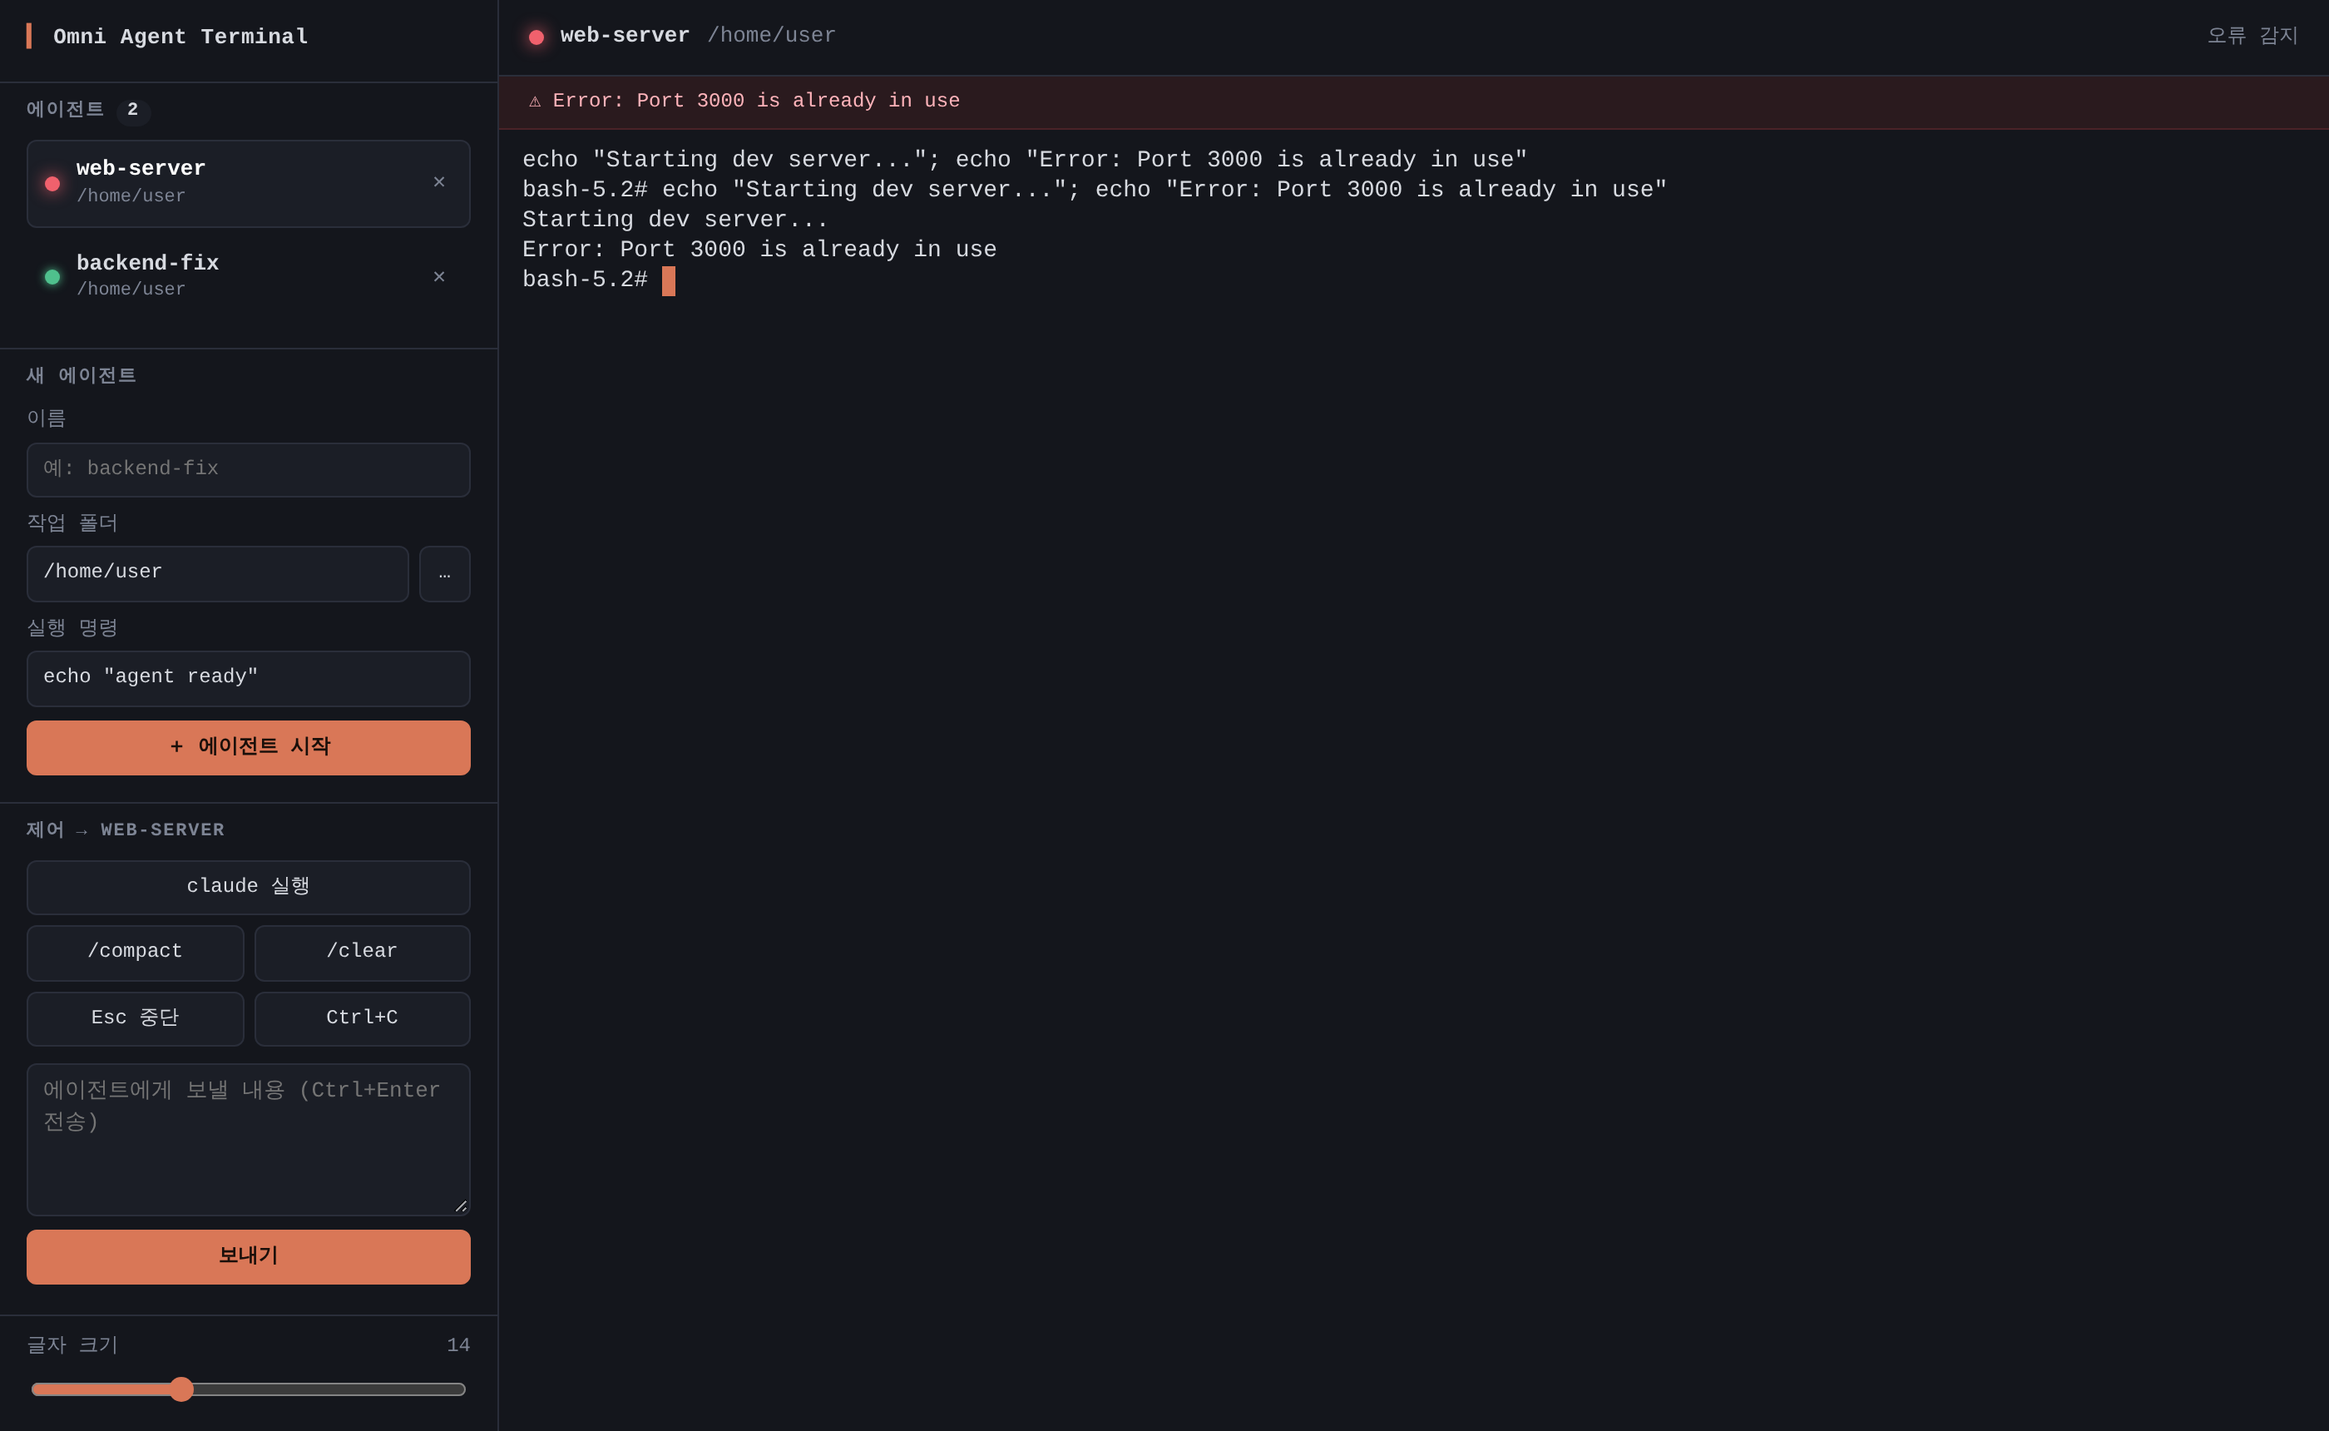
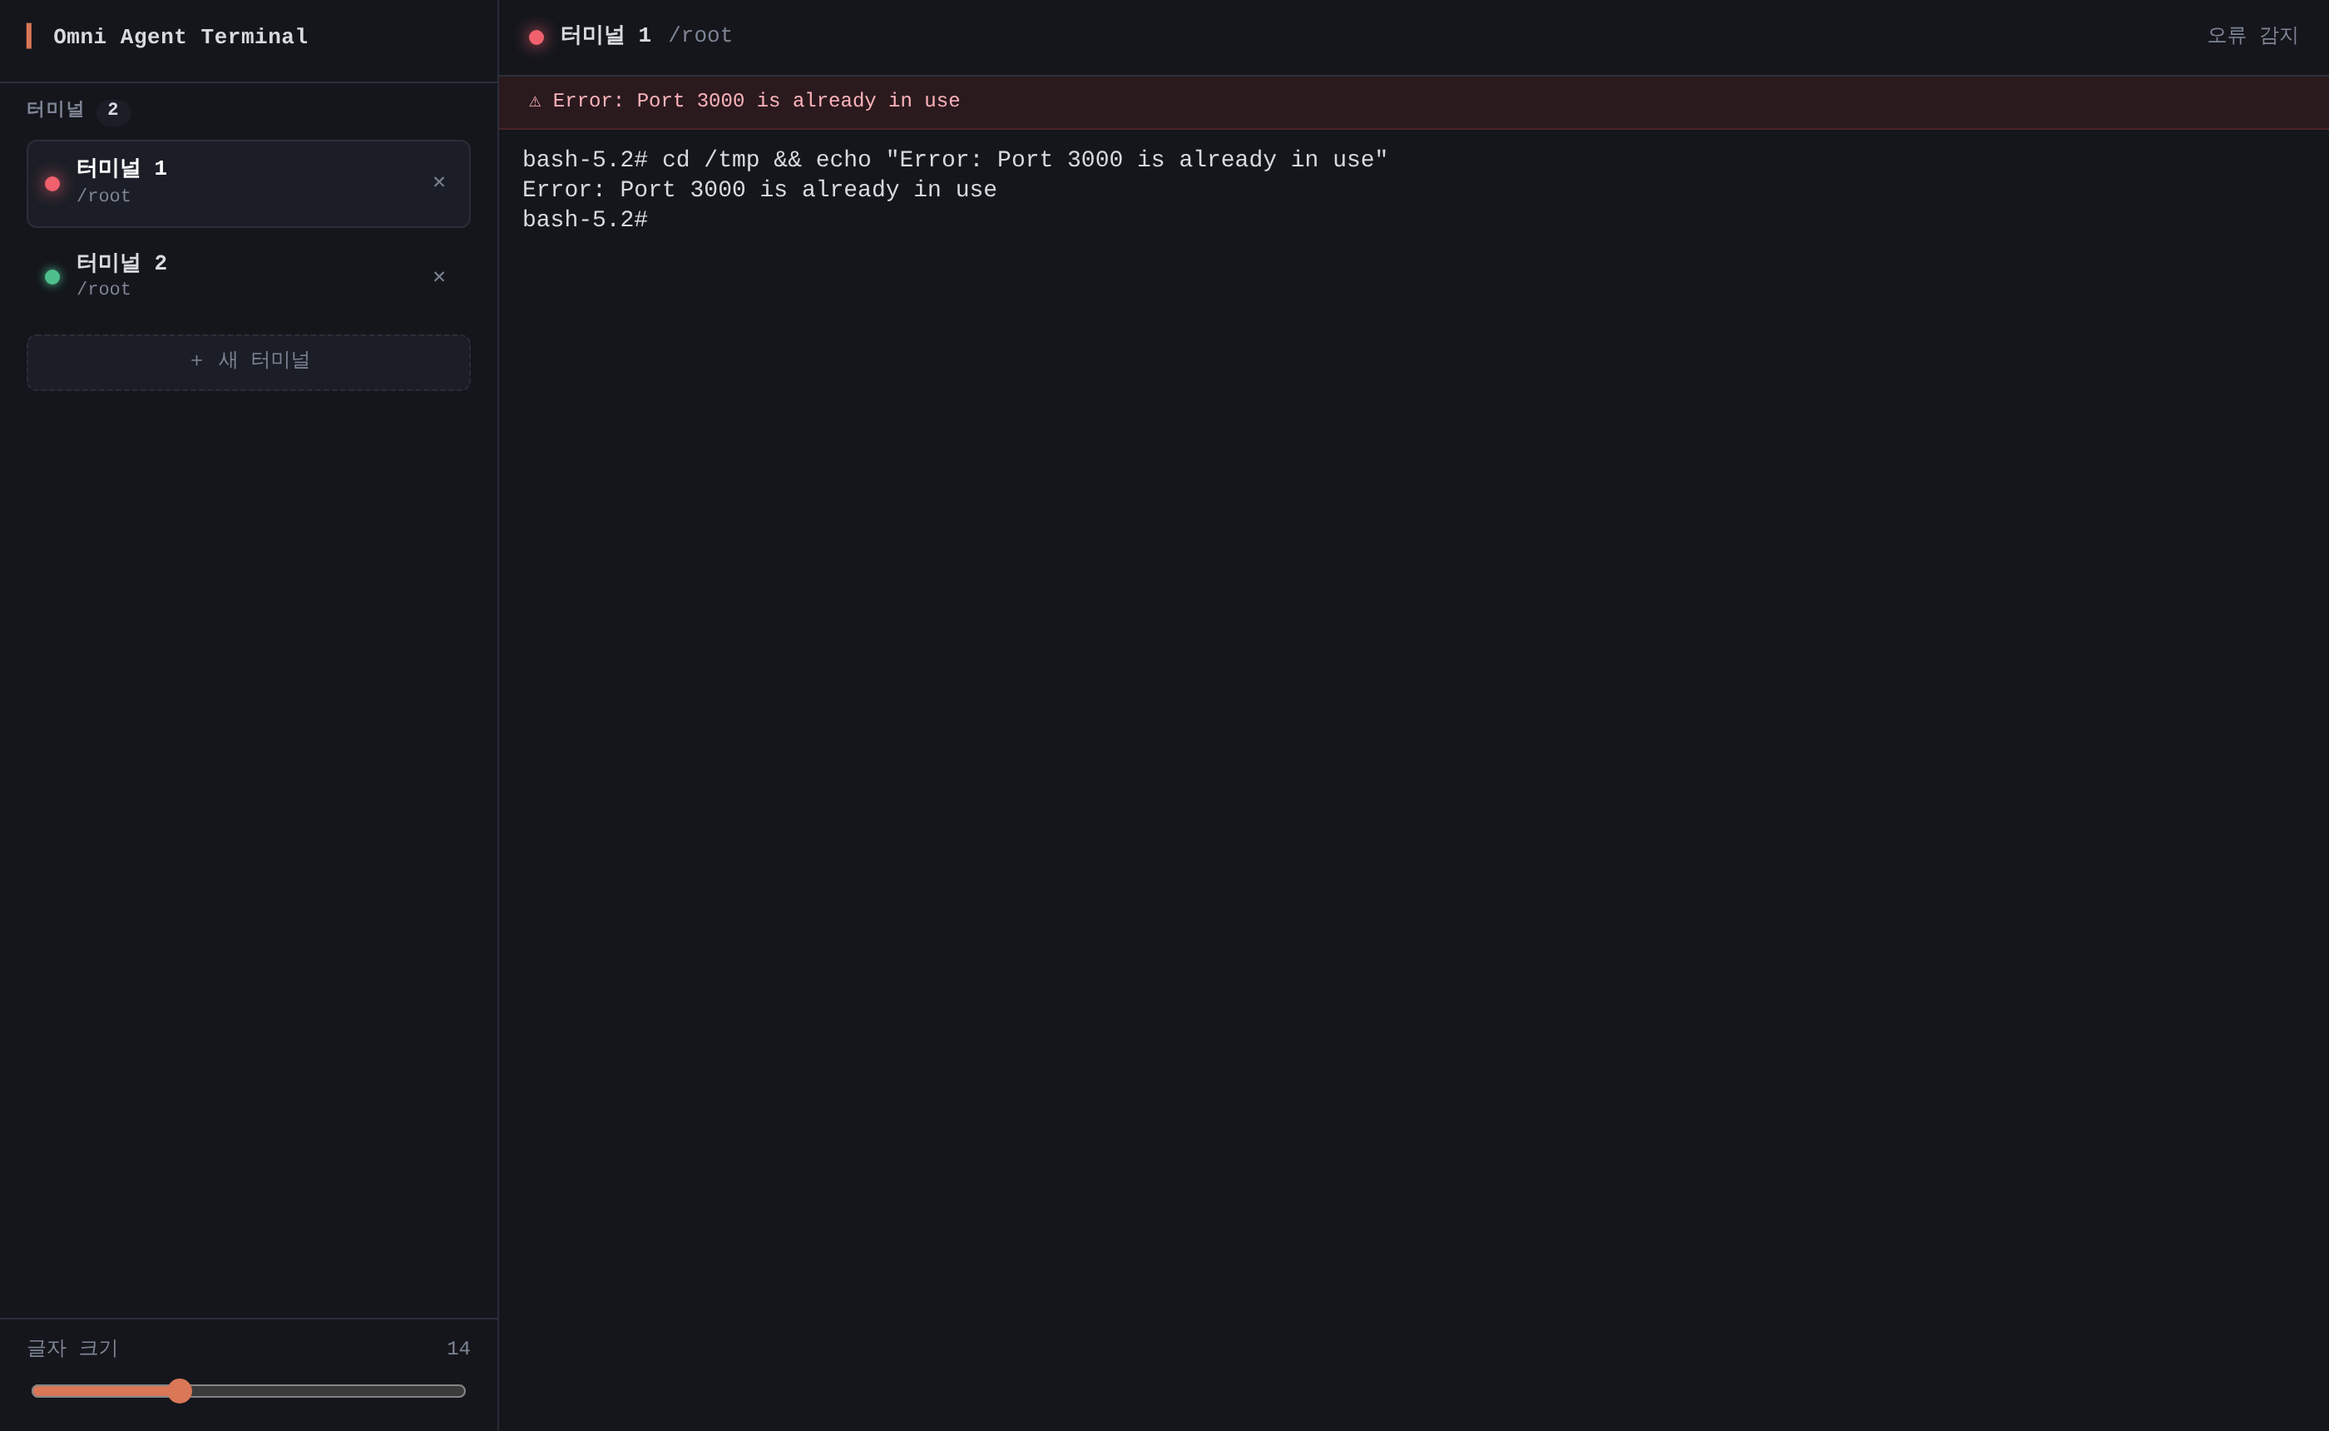
agent-terminal: open a plain shell on launch, drop agent controls
The app now starts straight into a PowerShell in the home folder. The new-agent
form, quick-command buttons and prompt box are removed (Claude Code already
covers them); the sidebar keeps the terminal list with status LEDs, a new
terminal button and font size. Ctrl+Shift+T / Ctrl+Shift+W open and close
terminals; closing the last one closes the window.

Claude-Session: https://claude.ai/code/session_01ThbFEw8WRqscoHxtDEMqQC

diff --git a/claude-code/apps/agent-terminal/src/renderer/renderer.js b/claude-code/apps/agent-terminal/src/renderer/renderer.js
@@ -23,16 +23,9 @@ const STATUS_LABEL = {
 const $ = (sel) => document.querySelector(sel);
 const els = {
   list: $('#agent-list'),
-  empty: $('#agent-empty'),
   count: $('#agent-count'),
   terminals: $('#terminals'),
-  welcome: $('#welcome'),
-  form: $('#new-agent'),
-  pick: $('#pick-folder'),
-  controls: $('#controls'),
-  controlTarget: $('#control-target'),
-  promptForm: $('#prompt-form'),
-  prompt: $('#prompt'),
+  newTerminal: $('#new-terminal'),
   fontSize: $('#font-size'),
   fontSizeValue: $('#font-size-value'),
   activeLed: $('#active-led'),
@@ -53,12 +46,24 @@ function writePref(key, value) {
   try { localStorage.setItem(key, String(value)); } catch { /* ignore */ }
 }
 
-// ---------- agent lifecycle ----------
+// ---------- terminal lifecycle ----------
 
-async function startAgent({ name, cwd, command }) {
-  const info = await api.create({ name, cwd, command, cols: 100, rows: 30 });
+// A plain shell in the home folder; the user cds and runs claude as usual.
+async function newTerminal() {
+  const info = await api.create({ cols: 100, rows: 30 });
   addAgent(info);
   select(info.id);
+}
+
+function closeTerminal(id) {
+  if (id) api.kill(id);
+}
+
+// Ctrl+Shift+T / Ctrl+Shift+W. Handled once, on document; xterm only has to
+// leave these keys alone (see attachCustomKeyEventHandler below).
+const SHORTCUTS = { KeyT: () => newTerminal(), KeyW: () => closeTerminal(activeId) };
+function isShortcut(e) {
+  return e.ctrlKey && e.shiftKey && !e.altKey && e.code in SHORTCUTS;
 }
 
 function addAgent(info) {
@@ -79,6 +84,7 @@ function addAgent(info) {
   term.loadAddon(fit);
   term.open(el);
   term.onData((data) => api.write(info.id, data));
+  term.attachCustomKeyEventHandler((e) => !isShortcut(e));
   term.onResize(({ cols, rows }) => api.resize(info.id, cols, rows));
 
   const item = document.createElement('li');
@@ -90,14 +96,14 @@ function addAgent(info) {
       <div class="agent-name ellipsis"></div>
       <div class="agent-sub ellipsis"></div>
     </span>
-    <button class="agent-close" title="에이전트 종료" aria-label="에이전트 종료">✕</button>`;
+    <button class="agent-close" title="터미널 닫기" aria-label="터미널 닫기">✕</button>`;
   item.querySelector('.agent-name').textContent = info.name;
   item.querySelector('.agent-sub').textContent = info.cwd;
   item.addEventListener('click', () => select(info.id));
   item.addEventListener('keydown', (e) => { if (e.key === 'Enter') select(info.id); });
   item.querySelector('.agent-close').addEventListener('click', (e) => {
     e.stopPropagation();
-    api.kill(info.id);
+    closeTerminal(info.id);
   });
   els.list.appendChild(item);
 
@@ -112,10 +118,11 @@ function removeAgent(id) {
   a.el.remove();
   a.item.remove();
   agents.delete(id);
+  // Closing the last terminal closes the window, like a regular terminal app.
+  if (agents.size === 0) { window.close(); return; }
   if (activeId === id) {
     activeId = null;
-    const next = agents.keys().next();
-    if (!next.done) select(next.value);
+    select([...agents.keys()].at(-1));
   }
   renderList();
   renderActive();
@@ -147,19 +154,15 @@ function fitActive() {
 
 function renderList() {
   els.count.textContent = String(agents.size);
-  els.empty.hidden = agents.size > 0;
-  els.welcome.hidden = agents.size > 0;
 }
 
 function renderActive() {
   const a = agents.get(activeId);
-  els.controls.setAttribute('aria-disabled', a && a.info.status !== 'exited' ? 'false' : 'true');
   if (!a) {
     els.activeLed.dataset.status = 'none';
-    els.activeName.textContent = '에이전트를 시작하세요';
+    els.activeName.textContent = '';
     els.activeCwd.textContent = '';
     els.activeStatus.textContent = '';
-    els.controlTarget.textContent = '';
     els.banner.hidden = true;
     return;
   }
@@ -168,7 +171,6 @@ function renderActive() {
   els.activeName.textContent = info.name;
   els.activeCwd.textContent = info.cwd;
   els.activeStatus.textContent = STATUS_LABEL[info.status] || '';
-  els.controlTarget.textContent = `→ ${info.name}`;
   els.banner.hidden = !info.error;
   els.banner.textContent = info.error ? `⚠ ${info.error}` : '';
 }
@@ -185,36 +187,11 @@ function setStatus(id, status, error) {
 
 // ---------- UI -> terminal ----------
 
-els.form.addEventListener('submit', async (e) => {
+els.newTerminal.addEventListener('click', () => newTerminal());
+document.addEventListener('keydown', (e) => {
+  if (!isShortcut(e) || e.repeat) return;
   e.preventDefault();
-  const data = Object.fromEntries(new FormData(els.form));
-  await startAgent(data);
-  els.form.elements.name.value = '';
-});
-
-els.pick.addEventListener('click', async () => {
-  const dir = await api.pickFolder();
-  if (dir) els.form.elements.cwd.value = dir;
-});
-
-els.controls.querySelector('.quick').addEventListener('click', (e) => {
-  const btn = e.target.closest('button');
-  if (!btn || !activeId) return;
-  if (btn.dataset.line) api.sendLine(activeId, btn.dataset.line);
-  else if (btn.dataset.key) api.write(activeId, btn.dataset.key);
-  agents.get(activeId).term.focus();
-});
-
-function sendPrompt() {
-  const text = els.prompt.value.trim();
-  if (!text || !activeId) return;
-  api.sendLine(activeId, text);
-  els.prompt.value = '';
-  agents.get(activeId).term.focus();
-}
-els.promptForm.addEventListener('submit', (e) => { e.preventDefault(); sendPrompt(); });
-els.prompt.addEventListener('keydown', (e) => {
-  if (e.key === 'Enter' && (e.ctrlKey || e.metaKey)) { e.preventDefault(); sendPrompt(); }
+  SHORTCUTS[e.code]();
 });
 
 function applyFontSize(size) {
@@ -246,7 +223,7 @@ new ResizeObserver(() => fitActive()).observe(els.terminals);
 (async () => {
   applyFontSize(fontSize);
   for (const info of await api.list()) addAgent(info);
-  const first = agents.keys().next();
-  if (!first.done) select(first.value);
-  renderActive();
+  // Open straight into a shell; nothing to set up first.
+  if (agents.size === 0) await newTerminal();
+  else select(agents.keys().next().value);
 })();

diff --git a/claude-code/apps/agent-terminal/src/renderer/index.html b/claude-code/apps/agent-terminal/src/renderer/index.html
@@ -17,43 +17,9 @@
       </header>
 
       <section class="panel">
-        <h2>에이전트 <span id="agent-count" class="count">0</span></h2>
-        <ul id="agent-list" class="agent-list" aria-label="에이전트 목록"></ul>
-        <p id="agent-empty" class="hint">아직 실행 중인 에이전트가 없습니다.</p>
-      </section>
-
-      <section class="panel">
-        <h2>새 에이전트</h2>
-        <form id="new-agent" class="form" autocomplete="off">
-          <label>이름
-            <input name="name" placeholder="예: backend-fix" maxlength="80">
-          </label>
-          <label>작업 폴더
-            <span class="row">
-              <input name="cwd" placeholder="비우면 홈 폴더">
-              <button type="button" id="pick-folder" class="btn ghost" title="폴더 선택">…</button>
-            </span>
-          </label>
-          <label>실행 명령
-            <input name="command" value="claude" spellcheck="false">
-          </label>
-          <button type="submit" class="btn primary">＋ 에이전트 시작</button>
-        </form>
-      </section>
-
-      <section class="panel" id="controls" aria-disabled="true">
-        <h2>제어 <span id="control-target" class="muted"></span></h2>
-        <div class="quick">
-          <button class="btn" data-line="claude" title="셸에서 claude 다시 실행">claude 실행</button>
-          <button class="btn" data-line="/compact" title="대화 요약으로 컨텍스트 줄이기">/compact</button>
-          <button class="btn" data-line="/clear" title="대화 초기화">/clear</button>
-          <button class="btn warn" data-key="&#27;" title="현재 작업 중단 (Esc)">Esc 중단</button>
-          <button class="btn danger" data-key="&#3;" title="Ctrl+C">Ctrl+C</button>
-        </div>
-        <form id="prompt-form" class="form">
-          <textarea id="prompt" rows="4" placeholder="에이전트에게 보낼 내용 (Ctrl+Enter 전송)"></textarea>
-          <button type="submit" class="btn primary">보내기</button>
-        </form>
+        <h2>터미널 <span id="agent-count" class="count">0</span></h2>
+        <ul id="agent-list" class="agent-list" aria-label="터미널 목록"></ul>
+        <button id="new-terminal" class="btn new-terminal" title="새 터미널 (Ctrl+Shift+T)">＋ 새 터미널</button>
       </section>
 
       <section class="panel settings">
@@ -66,15 +32,12 @@
     <main class="main">
       <div class="topbar">
         <span id="active-led" class="led" data-status="none"></span>
-        <span id="active-name" class="active-name">에이전트를 시작하세요</span>
+        <span id="active-name" class="active-name"></span>
         <span id="active-cwd" class="muted ellipsis"></span>
         <span id="active-status" class="status-text"></span>
       </div>
       <div id="error-banner" class="error-banner" hidden></div>
       <div id="terminals" class="terminals">
-        <div class="welcome" id="welcome">
-          <p>왼쪽 <b>새 에이전트</b>에서 작업 폴더를 고르고 시작하면<br>여기에 실제 터미널이 열리고 <code>claude</code>가 실행됩니다.</p>
-        </div>
       </div>
     </main>
   </div>

diff --git a/claude-code/apps/agent-terminal/src/renderer/styles.css b/claude-code/apps/agent-terminal/src/renderer/styles.css
@@ -8,7 +8,6 @@
   --text: #d7dae0;
   --muted: #7d8494;
   --accent: #d97757;
-  --accent-text: #1a0f0a;
   --ok: #4fc08d;
   --busy: #e6b450;
   --err: #f0616d;
@@ -96,23 +95,7 @@ body {
 @keyframes pulse { 50% { opacity: .45; } }
 @media (prefers-reduced-motion: reduce) { .led { animation: none !important; } }
 
-/* forms and buttons */
-.form { display: grid; gap: 8px; }
-.form label { display: grid; gap: 4px; font-size: 12px; color: var(--muted); }
-.row { display: flex; gap: 6px; }
-.row input { flex: 1; min-width: 0; }
-input, textarea {
-  background: var(--panel);
-  border: 1px solid var(--line);
-  color: var(--text);
-  font: inherit;
-  border-radius: var(--radius);
-  padding: 7px 9px;
-  outline: none;
-}
-textarea { resize: vertical; min-height: 64px; }
-input:focus, textarea:focus { border-color: var(--accent); }
-
+/* buttons */
 .btn {
   background: var(--panel);
   color: var(--text);
@@ -125,21 +108,12 @@ input:focus, textarea:focus { border-color: var(--accent); }
 }
 .btn:hover { border-color: var(--muted); }
 .btn:active { transform: translateY(1px); }
-.btn.primary { background: var(--accent); border-color: var(--accent); color: var(--accent-text); font-weight: 700; }
-.btn.primary:hover { filter: brightness(1.08); }
-.btn.ghost { padding: 7px 11px; }
-.btn.warn:hover { border-color: var(--busy); color: var(--busy); }
-.btn.danger:hover { border-color: var(--err); color: var(--err); }
+.new-terminal { width: 100%; margin-top: 8px; border-style: dashed; color: var(--muted); }
+.new-terminal:hover { color: var(--text); border-color: var(--accent); }
 .btn:focus-visible, .agent:focus-visible { outline: 2px solid var(--accent); outline-offset: 1px; }
 
-.quick { display: grid; grid-template-columns: 1fr 1fr; gap: 6px; margin-bottom: 10px; }
-.quick .btn:first-child { grid-column: span 2; }
-
-#controls[aria-disabled="true"] .quick,
-#controls[aria-disabled="true"] .form { opacity: .4; pointer-events: none; }
-
 .slider { display: grid; grid-template-columns: 1fr auto; gap: 6px; font-size: 12px; color: var(--muted); }
-.slider input { grid-column: span 2; accent-color: var(--accent); padding: 0; }
+.slider input { grid-column: span 2; accent-color: var(--accent); }
 .settings { margin-top: auto; }
 
 /* ---------- main ---------- */
@@ -164,12 +138,5 @@ input:focus, textarea:focus { border-color: var(--accent); }
 .terminals { position: relative; flex: 1; min-height: 0; }
 .term { position: absolute; inset: 0; padding: 10px 0 6px 14px; display: none; }
 .term.active { display: block; }
-.welcome {
-  position: absolute; inset: 0;
-  display: grid; place-items: center;
-  text-align: center; color: var(--muted);
-}
-.welcome code { color: var(--accent); }
-
 /* xterm draws on the same background as the page */
 .xterm, .xterm .xterm-viewport { background-color: var(--bg) !important; }

diff --git a/claude-code/apps/agent-terminal/src/sessions.js b/claude-code/apps/agent-terminal/src/sessions.js
@@ -22,7 +22,7 @@ class SessionManager {
     if (this.timer && this.timer.unref) this.timer.unref();
   }
 
-  create({ name, cwd, command = 'claude', cols = 100, rows = 30 } = {}) {
+  create({ name, cwd, command = '', cols = 100, rows = 30 } = {}) {
     const id = String(this.nextId++);
     const dir = cwd && cwd.trim() ? cwd.trim() : os.homedir();
     const pty = this.spawn(this.shell.file, this.shell.args, {
@@ -35,7 +35,7 @@ class SessionManager {
     const tracker = new StatusTracker({ now: this.now });
     const session = {
       id,
-      name: name && name.trim() ? name.trim() : `agent-${id}`,
+      name: name && name.trim() ? name.trim() : `터미널 ${id}`,
       cwd: dir,
       command: command.trim(),
       pty,

diff --git a/claude-code/apps/agent-terminal/src/main.js b/claude-code/apps/agent-terminal/src/main.js
@@ -20,7 +20,7 @@ function registerIpc() {
     manager.create({
       name: str(opts.name, 80) ?? '',
       cwd: str(opts.cwd, 1000) ?? '',
-      command: str(opts.command, 1000) ?? 'claude',
+      command: str(opts.command, 1000) ?? '',
       cols: int(opts.cols) ?? 100,
       rows: int(opts.rows) ?? 30,
     }),
